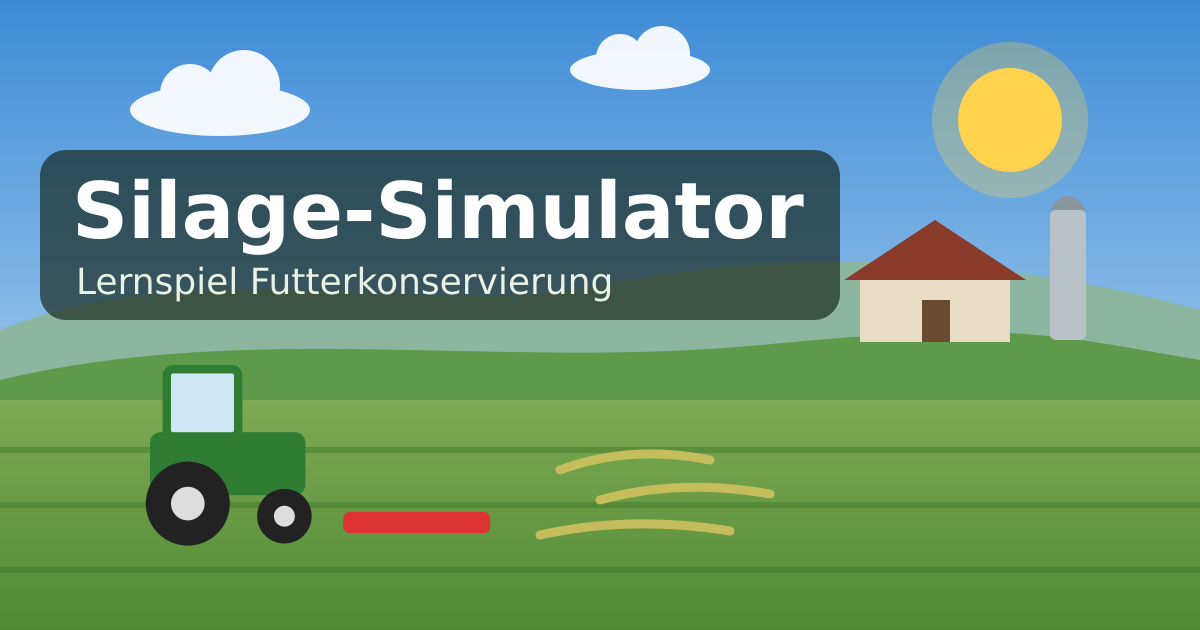
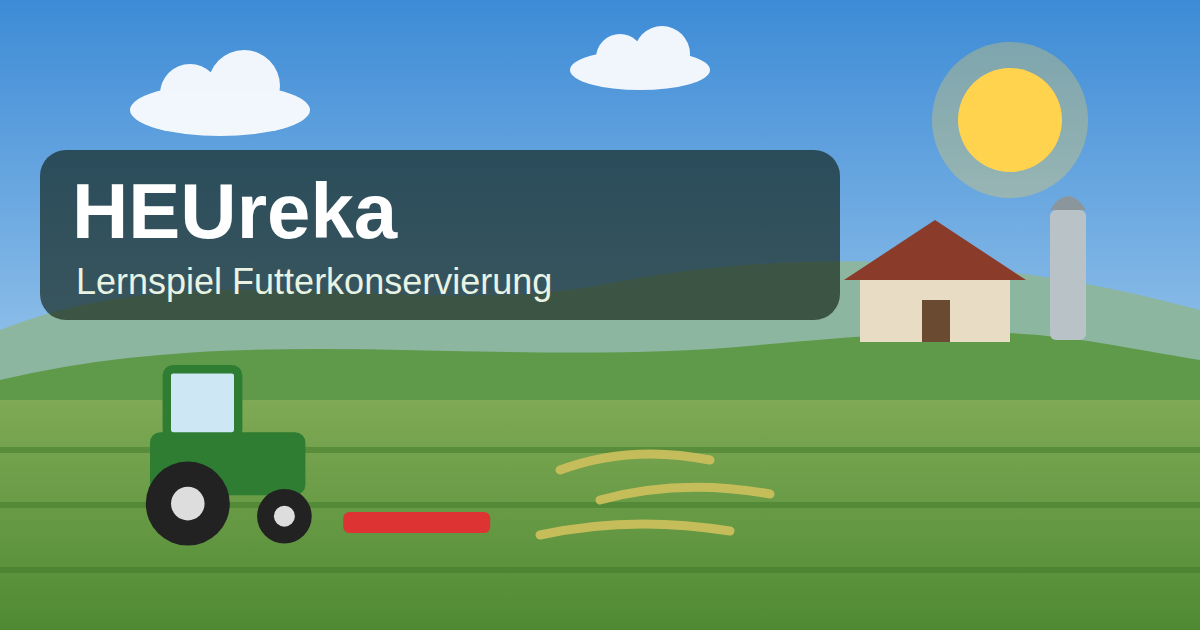
Umbenennung: «Silage-Simulator» heisst jetzt «Heureka» (Adresse /heureka, /drysim leitet weiter)
- Name, Titel, Logo (HEUreka, «HEU» heugelb), Manifest, Vorschaubild, Lern- und Szenarioseiten, Sitemap
- Traefik: neuer Router /heureka; /drysim/… dauerhaft (301) auf /heureka/… mit Pfad und Parametern (?wetter=, ?code=)
- Interne Speicherschlüssel (drysim-…) bleiben, damit Einstellungen und Rangliste erhalten bleiben

Changed region(s): [[0.0617, 0.2714, 0.6783, 0.4825]]

diff --git a/public/lernen.html b/public/lernen.html
@@ -3,18 +3,18 @@
 <head>
   <meta charset="utf-8">
   <meta name="viewport" content="width=device-width, initial-scale=1">
-  <title>Futterkonservierung verstehen: Anwelken, Atmung, Erde und Gärqualität – Silage-Simulator</title>
+  <title>Futterkonservierung verstehen: Anwelken, Atmung, Erde und Gärqualität – Heureka</title>
   <meta name="description" content="Wie gute Silage entsteht: Anwelken auf 30 bis 40 % TS, Breitablage, Zucker schonen, sauber arbeiten und die Gärqualität bewerten. Mit Begriffserklärungen.">
-  <link rel="canonical" href="https://apps.graswachstum.ch/drysim/lernen.html">
+  <link rel="canonical" href="https://apps.graswachstum.ch/heureka/lernen.html">
   <meta name="theme-color" content="#1d5a21" media="(prefers-color-scheme: light)">
   <meta name="theme-color" content="#0f1f10" media="(prefers-color-scheme: dark)">
   <meta name="color-scheme" content="light dark">
   <meta property="og:type" content="article">
   <meta property="og:locale" content="de_CH">
-  <meta property="og:title" content="Futterkonservierung verstehen: Anwelken, Atmung, Erde und Gärqualität – Silage-Simulator">
+  <meta property="og:title" content="Futterkonservierung verstehen: Anwelken, Atmung, Erde und Gärqualität – Heureka">
   <meta property="og:description" content="Wie gute Silage entsteht: Anwelken auf 30 bis 40 % TS, Breitablage, Zucker schonen, sauber arbeiten und die Gärqualität bewerten. Mit Begriffserklärungen.">
-  <meta property="og:url" content="https://apps.graswachstum.ch/drysim/lernen.html">
-  <meta property="og:image" content="https://apps.graswachstum.ch/drysim/img/og.png">
+  <meta property="og:url" content="https://apps.graswachstum.ch/heureka/lernen.html">
+  <meta property="og:image" content="https://apps.graswachstum.ch/heureka/img/og.png">
   <meta name="twitter:card" content="summary_large_image">
   <link rel="icon" href="img/icon.svg" type="image/svg+xml">
   <link rel="apple-touch-icon" href="img/icon-192.png">
@@ -24,9 +24,9 @@
 <body>
   <a class="skip" href="#inhalt">Zum Inhalt</a>
   <header class="kopf">
-    <a class="logo" href="" aria-label="Silage-Simulator, zum Spiel">
+    <a class="logo" href="" aria-label="Heureka, zum Spiel">
       <svg viewBox="0 0 48 48" aria-hidden="true"><rect x="8" y="14" width="22" height="28" rx="3" fill="#2e7d32"/><path d="M8 14 Q19 2 30 14Z" fill="#8a3b2a"/><ellipse cx="36" cy="38" rx="10" ry="5" fill="#a3a843"/></svg>
-      <span><b>Silage-Simulator</b><small>Lernspiel Futterkonservierung</small></span>
+      <span><b><span class="logo-heu">HEU</span>reka</b><small>Lernspiel Futterkonservierung</small></span>
     </a>
     <div class="kopf-knoepfe"><button type="button" class="icon-btn" id="modus"></button></div>
   </header>
@@ -34,7 +34,7 @@
   <main class="seite" id="inhalt">
     <h1>Futterkonservierung verstehen</h1>
 
-    <p>Silage entsteht, wenn Milchsäurebakterien im luftdichten Silo den Zucker des Futters zu Milchsäure vergären. Der pH-Wert sinkt, und das Futter wird haltbar. Ob das gelingt, entscheidet sich zu einem grossen Teil schon auf dem Feld. Diese Seite erklärt, was im <a href="./">Silage-Simulator</a> passiert und warum.</p>
+    <p>Silage entsteht, wenn Milchsäurebakterien im luftdichten Silo den Zucker des Futters zu Milchsäure vergären. Der pH-Wert sinkt, und das Futter wird haltbar. Ob das gelingt, entscheidet sich zu einem grossen Teil schon auf dem Feld. Diese Seite erklärt, was im <a href="./">Lernspiel Heureka</a> passiert und warum.</p>
     <div class="infobox"><p><strong>Wichtig:</strong> Das Spiel rechnet mit einem vereinfachten Lehrmodell. Es zeigt Zusammenhänge und Grössenordnungen, ist aber keine Prognose für einen Betrieb.</p></div>
     <nav aria-label="Inhalt dieser Seite"><ul>
       <li><a href="#anwelken">Warum anwelken?</a></li>
@@ -124,7 +124,7 @@
     </ul>
 
     <h2>Jetzt ausprobieren</h2>
-    <p><a class="knopflink" href="./">Silage-Simulator starten</a></p>
+    <p><a class="knopflink" href="./">Heureka starten</a></p>
     <p>Oder zuerst ein Szenario ansehen:</p>
     <ul>
       <li><a href="szenario/bilderbuch.html">Bilderbuch</a></li>

diff --git a/public/index.html b/public/index.html
@@ -3,18 +3,18 @@
 <head>
   <meta charset="utf-8">
   <meta name="viewport" content="width=device-width, initial-scale=1">
-  <title>Silage-Simulator – Lernspiel Futterkonservierung</title>
+  <title>Heureka – Lernspiel Futterkonservierung</title>
   <meta name="description" content="Lernspiel Futterkonservierung: Mähen, Zetten, Schwaden und Einfahren bei wechselndem Wetter – und wie das die Silagequalität verändert.">
-  <link rel="canonical" href="https://apps.graswachstum.ch/drysim/">
+  <link rel="canonical" href="https://apps.graswachstum.ch/heureka/">
   <meta name="theme-color" content="#1d5a21" media="(prefers-color-scheme: light)">
   <meta name="theme-color" content="#0f1f10" media="(prefers-color-scheme: dark)">
   <meta name="color-scheme" content="light dark">
   <meta property="og:type" content="website">
   <meta property="og:locale" content="de_CH">
-  <meta property="og:title" content="Silage-Simulator – Schaffst du die perfekte Silage?">
+  <meta property="og:title" content="Heureka – Schaffst du die perfekte Silage?">
   <meta property="og:description" content="Lernspiel Futterkonservierung: Du entscheidest, wann gemäht, gezettet, geschwadet und eingefahren wird. Das Wetter macht, was es will.">
-  <meta property="og:url" content="https://apps.graswachstum.ch/drysim/">
-  <meta property="og:image" content="https://apps.graswachstum.ch/drysim/img/og.png">
+  <meta property="og:url" content="https://apps.graswachstum.ch/heureka/">
+  <meta property="og:image" content="https://apps.graswachstum.ch/heureka/img/og.png">
   <meta property="og:image:alt" content="Traktor mit Mähwerk auf einer Wiese vor einem Hof">
   <meta name="twitter:card" content="summary_large_image">
   <link rel="icon" href="img/icon.svg" type="image/svg+xml">
@@ -23,7 +23,7 @@
   <link rel="stylesheet" href="css/app.css">
   <script src="js/boot.js"></script>
   <script type="application/ld+json">
-  {"@context":"https://schema.org","@type":"WebApplication","name":"Silage-Simulator","url":"https://apps.graswachstum.ch/drysim/",
+  {"@context":"https://schema.org","@type":"WebApplication","name":"Heureka","url":"https://apps.graswachstum.ch/heureka/",
    "description":"Lernspiel zur Futterkonservierung für die höhere Berufsbildung: Silage bereiten bei wechselndem Wetter.",
    "applicationCategory":"EducationalApplication","operatingSystem":"Alle (Webbrowser)","inLanguage":"de-CH","isAccessibleForFree":true,
    "audience":{"@type":"EducationalAudience","educationalRole":"student"}}
@@ -32,9 +32,9 @@
 <body>
   <a class="skip" href="#inhalt">Zum Inhalt</a>
   <header class="kopf">
-    <button type="button" class="logo" data-gehe="start" aria-label="Silage-Simulator, zum Startmenü">
+    <button type="button" class="logo" data-gehe="start" aria-label="Heureka, zum Startmenü">
       <svg viewBox="0 0 48 48" aria-hidden="true"><rect x="8" y="14" width="22" height="28" rx="3" fill="#2e7d32"/><path d="M8 14 Q19 2 30 14Z" fill="#8a3b2a"/><ellipse cx="36" cy="38" rx="10" ry="5" fill="#a3a843"/></svg>
-      <span><b>Silage-Simulator</b><small>Lernspiel Futterkonservierung</small></span>
+      <span><b><span class="logo-heu">HEU</span>reka</b><small>Lernspiel Futterkonservierung</small></span>
     </button>
     <div class="kopf-knoepfe">
       <button type="button" class="leise-knopf" id="begriffe-auf">Begriffe</button>

diff --git a/public/szenario/ohneaufbereiter.html b/public/szenario/ohneaufbereiter.html
@@ -3,18 +3,18 @@
 <head>
   <meta charset="utf-8">
   <meta name="viewport" content="width=device-width, initial-scale=1">
-  <title>Szenario «Nass gemäht, über Nacht»: Wie wird die Silage? – Silage-Simulator</title>
+  <title>Szenario «Nass gemäht, über Nacht»: Wie wird die Silage? – Heureka</title>
   <meta name="description" content="Nass gemäht, schmale Schwade, Nacht im Tau: wie lange dauert das Anwelken ohne Aufbereiter? Lies das Szenario, tippe das Ergebnis und schau den Zeitraffer an.">
-  <link rel="canonical" href="https://apps.graswachstum.ch/drysim/szenario/ohneaufbereiter.html">
+  <link rel="canonical" href="https://apps.graswachstum.ch/heureka/szenario/ohneaufbereiter.html">
   <meta name="theme-color" content="#1d5a21" media="(prefers-color-scheme: light)">
   <meta name="theme-color" content="#0f1f10" media="(prefers-color-scheme: dark)">
   <meta name="color-scheme" content="light dark">
   <meta property="og:type" content="article">
   <meta property="og:locale" content="de_CH">
-  <meta property="og:title" content="Szenario «Nass gemäht, über Nacht»: Wie wird die Silage? – Silage-Simulator">
+  <meta property="og:title" content="Szenario «Nass gemäht, über Nacht»: Wie wird die Silage? – Heureka">
   <meta property="og:description" content="Nass gemäht, schmale Schwade, Nacht im Tau: wie lange dauert das Anwelken ohne Aufbereiter? Lies das Szenario, tippe das Ergebnis und schau den Zeitraffer an.">
-  <meta property="og:url" content="https://apps.graswachstum.ch/drysim/szenario/ohneaufbereiter.html">
-  <meta property="og:image" content="https://apps.graswachstum.ch/drysim/img/og.png">
+  <meta property="og:url" content="https://apps.graswachstum.ch/heureka/szenario/ohneaufbereiter.html">
+  <meta property="og:image" content="https://apps.graswachstum.ch/heureka/img/og.png">
   <meta name="twitter:card" content="summary_large_image">
   <link rel="icon" href="../img/icon.svg" type="image/svg+xml">
   <link rel="apple-touch-icon" href="../img/icon-192.png">
@@ -24,9 +24,9 @@
 <body>
   <a class="skip" href="#inhalt">Zum Inhalt</a>
   <header class="kopf">
-    <a class="logo" href="../" aria-label="Silage-Simulator, zum Spiel">
+    <a class="logo" href="../" aria-label="Heureka, zum Spiel">
       <svg viewBox="0 0 48 48" aria-hidden="true"><rect x="8" y="14" width="22" height="28" rx="3" fill="#2e7d32"/><path d="M8 14 Q19 2 30 14Z" fill="#8a3b2a"/><ellipse cx="36" cy="38" rx="10" ry="5" fill="#a3a843"/></svg>
-      <span><b>Silage-Simulator</b><small>Lernspiel Futterkonservierung</small></span>
+      <span><b><span class="logo-heu">HEU</span>reka</b><small>Lernspiel Futterkonservierung</small></span>
     </a>
     <div class="kopf-knoepfe"><button type="button" class="icon-btn" id="modus"></button></div>
   </header>

diff --git a/public/szenario/tiefgemaeht.html b/public/szenario/tiefgemaeht.html
@@ -3,18 +3,18 @@
 <head>
   <meta charset="utf-8">
   <meta name="viewport" content="width=device-width, initial-scale=1">
-  <title>Szenario «Tief gemäht, dann Gewitter»: Wie wird die Silage? – Silage-Simulator</title>
+  <title>Szenario «Tief gemäht, dann Gewitter»: Wie wird die Silage? – Heureka</title>
   <meta name="description" content="Erde, wenig Zucker und Regen: wie schnell kippt die Gärung, wenn mehrere Fehler zusammenkommen? Lies das Szenario, tippe das Ergebnis und schau den Zeitraffer an.">
-  <link rel="canonical" href="https://apps.graswachstum.ch/drysim/szenario/tiefgemaeht.html">
+  <link rel="canonical" href="https://apps.graswachstum.ch/heureka/szenario/tiefgemaeht.html">
   <meta name="theme-color" content="#1d5a21" media="(prefers-color-scheme: light)">
   <meta name="theme-color" content="#0f1f10" media="(prefers-color-scheme: dark)">
   <meta name="color-scheme" content="light dark">
   <meta property="og:type" content="article">
   <meta property="og:locale" content="de_CH">
-  <meta property="og:title" content="Szenario «Tief gemäht, dann Gewitter»: Wie wird die Silage? – Silage-Simulator">
+  <meta property="og:title" content="Szenario «Tief gemäht, dann Gewitter»: Wie wird die Silage? – Heureka">
   <meta property="og:description" content="Erde, wenig Zucker und Regen: wie schnell kippt die Gärung, wenn mehrere Fehler zusammenkommen? Lies das Szenario, tippe das Ergebnis und schau den Zeitraffer an.">
-  <meta property="og:url" content="https://apps.graswachstum.ch/drysim/szenario/tiefgemaeht.html">
-  <meta property="og:image" content="https://apps.graswachstum.ch/drysim/img/og.png">
+  <meta property="og:url" content="https://apps.graswachstum.ch/heureka/szenario/tiefgemaeht.html">
+  <meta property="og:image" content="https://apps.graswachstum.ch/heureka/img/og.png">
   <meta name="twitter:card" content="summary_large_image">
   <link rel="icon" href="../img/icon.svg" type="image/svg+xml">
   <link rel="apple-touch-icon" href="../img/icon-192.png">
@@ -24,9 +24,9 @@
 <body>
   <a class="skip" href="#inhalt">Zum Inhalt</a>
   <header class="kopf">
-    <a class="logo" href="../" aria-label="Silage-Simulator, zum Spiel">
+    <a class="logo" href="../" aria-label="Heureka, zum Spiel">
       <svg viewBox="0 0 48 48" aria-hidden="true"><rect x="8" y="14" width="22" height="28" rx="3" fill="#2e7d32"/><path d="M8 14 Q19 2 30 14Z" fill="#8a3b2a"/><ellipse cx="36" cy="38" rx="10" ry="5" fill="#a3a843"/></svg>
-      <span><b>Silage-Simulator</b><small>Lernspiel Futterkonservierung</small></span>
+      <span><b><span class="logo-heu">HEU</span>reka</b><small>Lernspiel Futterkonservierung</small></span>
     </a>
     <div class="kopf-knoepfe"><button type="button" class="icon-btn" id="modus"></button></div>
   </header>

diff --git a/public/szenario/bilderbuch.html b/public/szenario/bilderbuch.html
@@ -3,18 +3,18 @@
 <head>
   <meta charset="utf-8">
   <meta name="viewport" content="width=device-width, initial-scale=1">
-  <title>Szenario «Bilderbuch»: Wie wird die Silage? – Silage-Simulator</title>
+  <title>Szenario «Bilderbuch»: Wie wird die Silage? – Heureka</title>
   <meta name="description" content="So sieht eine gelungene Silage aus: nach dem Abtrocknen mähen, breit ablegen, kurz liegen lassen und am Abend einfahren. Lies das Szenario, tippe das Ergebnis und schau den Zeitraffer an.">
-  <link rel="canonical" href="https://apps.graswachstum.ch/drysim/szenario/bilderbuch.html">
+  <link rel="canonical" href="https://apps.graswachstum.ch/heureka/szenario/bilderbuch.html">
   <meta name="theme-color" content="#1d5a21" media="(prefers-color-scheme: light)">
   <meta name="theme-color" content="#0f1f10" media="(prefers-color-scheme: dark)">
   <meta name="color-scheme" content="light dark">
   <meta property="og:type" content="article">
   <meta property="og:locale" content="de_CH">
-  <meta property="og:title" content="Szenario «Bilderbuch»: Wie wird die Silage? – Silage-Simulator">
+  <meta property="og:title" content="Szenario «Bilderbuch»: Wie wird die Silage? – Heureka">
   <meta property="og:description" content="So sieht eine gelungene Silage aus: nach dem Abtrocknen mähen, breit ablegen, kurz liegen lassen und am Abend einfahren. Lies das Szenario, tippe das Ergebnis und schau den Zeitraffer an.">
-  <meta property="og:url" content="https://apps.graswachstum.ch/drysim/szenario/bilderbuch.html">
-  <meta property="og:image" content="https://apps.graswachstum.ch/drysim/img/og.png">
+  <meta property="og:url" content="https://apps.graswachstum.ch/heureka/szenario/bilderbuch.html">
+  <meta property="og:image" content="https://apps.graswachstum.ch/heureka/img/og.png">
   <meta name="twitter:card" content="summary_large_image">
   <link rel="icon" href="../img/icon.svg" type="image/svg+xml">
   <link rel="apple-touch-icon" href="../img/icon-192.png">
@@ -24,9 +24,9 @@
 <body>
   <a class="skip" href="#inhalt">Zum Inhalt</a>
   <header class="kopf">
-    <a class="logo" href="../" aria-label="Silage-Simulator, zum Spiel">
+    <a class="logo" href="../" aria-label="Heureka, zum Spiel">
       <svg viewBox="0 0 48 48" aria-hidden="true"><rect x="8" y="14" width="22" height="28" rx="3" fill="#2e7d32"/><path d="M8 14 Q19 2 30 14Z" fill="#8a3b2a"/><ellipse cx="36" cy="38" rx="10" ry="5" fill="#a3a843"/></svg>
-      <span><b>Silage-Simulator</b><small>Lernspiel Futterkonservierung</small></span>
+      <span><b><span class="logo-heu">HEU</span>reka</b><small>Lernspiel Futterkonservierung</small></span>
     </a>
     <div class="kopf-knoepfe"><button type="button" class="icon-btn" id="modus"></button></div>
   </header>

diff --git a/public/szenario/foehn.html b/public/szenario/foehn.html
@@ -3,18 +3,18 @@
 <head>
   <meta charset="utf-8">
   <meta name="viewport" content="width=device-width, initial-scale=1">
-  <title>Szenario «Föhn und Rundballen»: Wie wird die Silage? – Silage-Simulator</title>
+  <title>Szenario «Föhn und Rundballen»: Wie wird die Silage? – Heureka</title>
   <meta name="description" content="undefined Lies das Szenario, tippe das Ergebnis und schau den Zeitraffer an.">
-  <link rel="canonical" href="https://apps.graswachstum.ch/drysim/szenario/foehn.html">
+  <link rel="canonical" href="https://apps.graswachstum.ch/heureka/szenario/foehn.html">
   <meta name="theme-color" content="#1d5a21" media="(prefers-color-scheme: light)">
   <meta name="theme-color" content="#0f1f10" media="(prefers-color-scheme: dark)">
   <meta name="color-scheme" content="light dark">
   <meta property="og:type" content="article">
   <meta property="og:locale" content="de_CH">
-  <meta property="og:title" content="Szenario «Föhn und Rundballen»: Wie wird die Silage? – Silage-Simulator">
+  <meta property="og:title" content="Szenario «Föhn und Rundballen»: Wie wird die Silage? – Heureka">
   <meta property="og:description" content="undefined Lies das Szenario, tippe das Ergebnis und schau den Zeitraffer an.">
-  <meta property="og:url" content="https://apps.graswachstum.ch/drysim/szenario/foehn.html">
-  <meta property="og:image" content="https://apps.graswachstum.ch/drysim/img/og.png">
+  <meta property="og:url" content="https://apps.graswachstum.ch/heureka/szenario/foehn.html">
+  <meta property="og:image" content="https://apps.graswachstum.ch/heureka/img/og.png">
   <meta name="twitter:card" content="summary_large_image">
   <link rel="icon" href="../img/icon.svg" type="image/svg+xml">
   <link rel="apple-touch-icon" href="../img/icon-192.png">
@@ -24,9 +24,9 @@
 <body>
   <a class="skip" href="#inhalt">Zum Inhalt</a>
   <header class="kopf">
-    <a class="logo" href="../" aria-label="Silage-Simulator, zum Spiel">
+    <a class="logo" href="../" aria-label="Heureka, zum Spiel">
       <svg viewBox="0 0 48 48" aria-hidden="true"><rect x="8" y="14" width="22" height="28" rx="3" fill="#2e7d32"/><path d="M8 14 Q19 2 30 14Z" fill="#8a3b2a"/><ellipse cx="36" cy="38" rx="10" ry="5" fill="#a3a843"/></svg>
-      <span><b>Silage-Simulator</b><small>Lernspiel Futterkonservierung</small></span>
+      <span><b><span class="logo-heu">HEU</span>reka</b><small>Lernspiel Futterkonservierung</small></span>
     </a>
     <div class="kopf-knoepfe"><button type="button" class="icon-btn" id="modus"></button></div>
   </header>

diff --git a/public/sw.js b/public/sw.js
@@ -1,5 +1,5 @@
 // Automatisch erzeugt von tools/seiten.mjs – nicht von Hand ändern
-const CACHE = 'drysim-2026-10-18-27';
+const CACHE = 'drysim-2026-11-07-27';
 const DATEIEN = ['./', 'css/app.css', 'img/icon-192.png', 'img/icon-512.png', 'img/icon.svg', 'img/og.png', 'img/og.svg', 'index.html', 'js/app.js', 'js/begriffe.js', 'js/boot.js', 'js/chart.js', 'js/game.js', 'js/icons.js', 'js/maschinen.js', 'js/model.js', 'js/modus.js', 'js/scenarios.js', 'js/scene.js', 'js/weather.js', 'js/wiese.js', 'lernen.html', 'manifest.webmanifest', 'sitemap.xml', 'szenario/bilderbuch.html', 'szenario/foehn.html', 'szenario/ohneaufbereiter.html', 'szenario/tiefgemaeht.html'];
 
 self.addEventListener('install', (e) => {

diff --git a/public/js/app.js b/public/js/app.js
@@ -20,11 +20,11 @@ const schreib = (speicher, key, wert) => { try { speicher.setItem(key, JSON.stri
 let spiel = null;
 let aktuell = 'start';
 const TITEL = {
-  start: 'Silage-Simulator – Lernspiel Futterkonservierung',
-  setup: 'Einsatz planen – Silage-Simulator',
-  spiel: 'Auf dem Feld – Silage-Simulator',
-  ergebnis: 'Silo öffnen – Silage-Simulator',
-  wetten: 'Prognose-Wette – Silage-Simulator',
+  start: 'Heureka – Lernspiel Futterkonservierung',
+  setup: 'Einsatz planen – Heureka',
+  spiel: 'Auf dem Feld – Heureka',
+  ergebnis: 'Silo öffnen – Heureka',
+  wetten: 'Prognose-Wette – Heureka',
 };
 const PFAD = {
   start: [],

diff --git a/public/css/app.css b/public/css/app.css
@@ -461,3 +461,5 @@ a.logo small { opacity: .85; font-size: .95rem; }
 :root[data-outdoor="1"] .regler .plusminus, :root[data-outdoor="1"] .icon-btn { width: 56px; height: 56px; }
 :root[data-outdoor="1"] .gross-knopf { min-height: 64px; }
 :root[data-outdoor="1"] .aktion { min-height: 72px; }
+/* Name «Heureka»: Wortspiel Heu + Heureka sichtbar machen (heugelb auf dem grünen Kopf) */
+.logo-heu { color: #f5c84c; letter-spacing: .02em; }

diff --git a/README.md b/README.md
@@ -1,7 +1,7 @@
-# Silage-Simulator (drysim)
+# Heureka – Lernspiel Futterkonservierung (früher «Silage-Simulator», Pfad /drysim)
 
 Lernspiel zur Futterkonservierung für die höhere Berufsschule und die höhere Fachschule.
-Läuft unter <https://apps.graswachstum.ch/drysim/>. Der Start ist die Silagebereitung, Heu kommt später dazu.
+Läuft unter <https://apps.graswachstum.ch/heureka/>. Der Start ist die Silagebereitung, Heu kommt später dazu.
 
 ## Idee (Gespräch vom 12.10.2026)
 
@@ -9,7 +9,7 @@ Läuft unter <https://apps.graswachstum.ch/drysim/>. Der Start ist die Silageber
 - **Prognose**: Ein Szenario ist vorgegeben. Die Studierenden tippen zuerst TS, Rohasche und Gärnote, dann läuft die Simulation im Schnelldurchlauf und deckt das Ergebnis auf.
 - **Erklär-Knöpfe**: Beim Ergebnis erklärt jeder Faktor, was passiert ist (z.B. „5 cm Schnitthöhe → +18 g Rohasche → Clostridien → Buttersäure“). Das ist näher an der Schweizer Sicht („Hast du alles richtig gemacht, damit es gut werden musste?“). Die DLG-Laborbewertung wird nur als Ergebnis gezeigt.
 
-Für den Wettkampf bekommen alle dasselbe Wetter, entweder eine feste Wetterlage oder ein Zufallswetter mit Code: `…/drysim/?wetter=gewitter` oder `…/drysim/?code=KLASSE3`.
+Für den Wettkampf bekommen alle dasselbe Wetter, entweder eine feste Wetterlage oder ein Zufallswetter mit Code: `…/heureka/?wetter=gewitter` oder `…/heureka/?code=KLASSE3`.
 
 ## Aufbau
 
@@ -56,7 +56,7 @@ docker run --rm -v "$PWD":/app -w /app node:22-alpine node tools/seiten.mjs
 ```
 
 - **Offline:** Service Worker (aus `tools/seiten.mjs`) lädt alle Dateien vorab; die App startet auch ohne Netz.
-- `sitemap.xml` liegt unter `/drysim/`. Ein `robots.txt` müsste auf `apps.graswachstum.ch` im Wurzelverzeichnis liegen (gehört nicht zu dieser App).
+- `sitemap.xml` liegt unter `/heureka/`. Ein `robots.txt` müsste auf `apps.graswachstum.ch` im Wurzelverzeichnis liegen (gehört nicht zu dieser App).
 
 ## Modell (Lehrmodell, vereinfacht)
 
